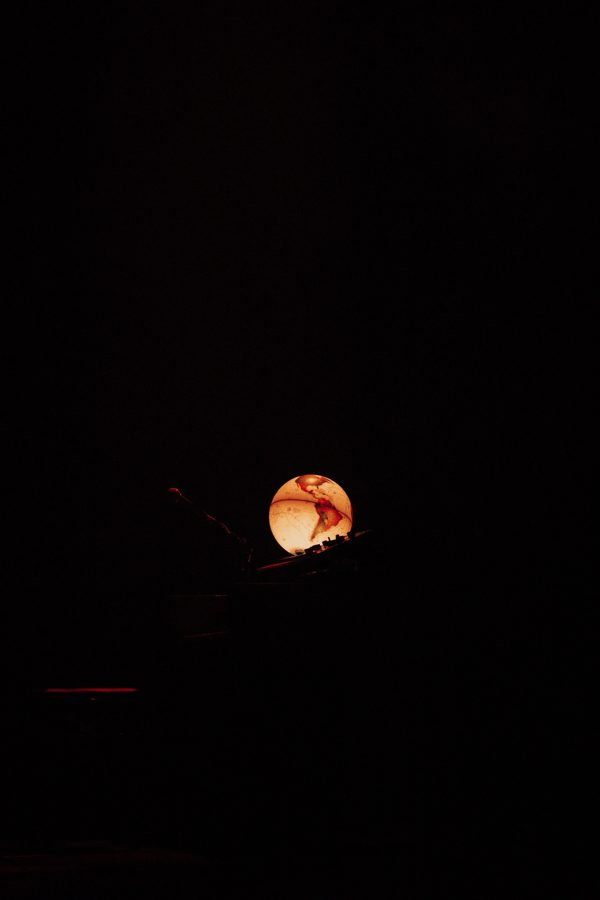
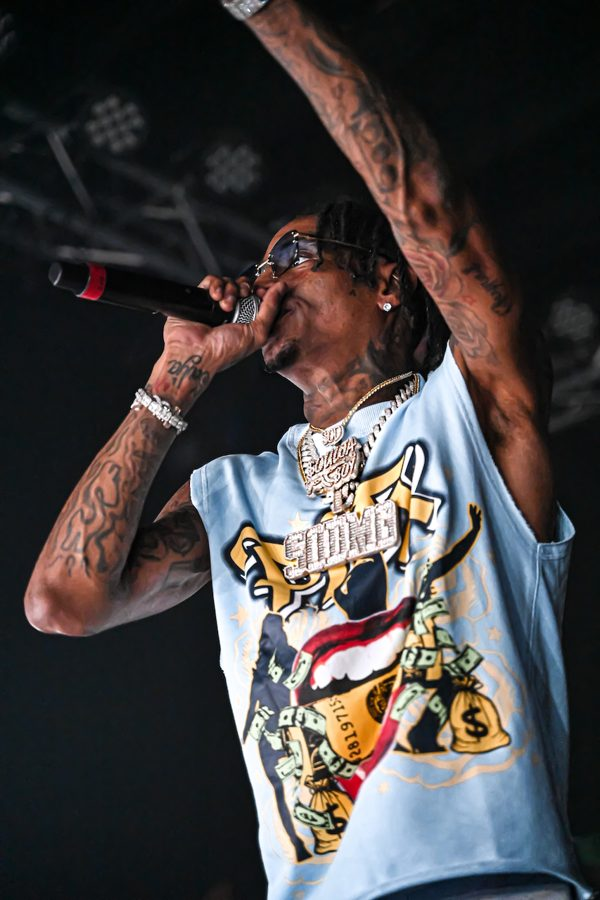
Swap dark Isakov concert tile for vivid Soulja Boy shot (marketing clarity)

diff --git a/index.html b/index.html
@@ -168,7 +168,7 @@
     <div class="band-grid">
       <div class="ph r11"><img src="./img/concert-1.jpg" alt="TobyMac live"></div>
       <div class="ph r11"><img src="./img/concert-2.jpg" alt="Latto live"></div>
-      <div class="ph r11"><img src="./img/concert-3.jpg" alt="Gregory Alan Isakov live"></div>
+      <div class="ph r11"><img src="./img/concert-3.jpg?v=2" alt="Soulja Boy live"></div>
       <div class="ph r11"><img src="./img/concert-4.jpg" alt="Wage War live"></div>
     </div>
     <div class="more"><a class="btn ghost" style="border-color: var(--gold); color: var(--gold) !important;" href="./concerts.html">Concert portfolio →</a></div>

diff --git a/about.html b/about.html
@@ -69,7 +69,7 @@
     <div class="band-grid">
       <div class="ph r11"><img src="./img/concert-1.jpg" alt="TobyMac live"></div>
       <div class="ph r11"><img src="./img/concert-2.jpg" alt="Latto live"></div>
-      <div class="ph r11"><img src="./img/concert-3.jpg" alt="Gregory Alan Isakov live"></div>
+      <div class="ph r11"><img src="./img/concert-3.jpg?v=2" alt="Soulja Boy live"></div>
       <div class="ph r11"><img src="./img/concert-4.jpg" alt="Wage War live"></div>
     </div>
     <div class="more"><a class="btn ghost" style="border-color: var(--gold); color: var(--gold) !important;" href="./concerts.html">Concert portfolio →</a></div>
